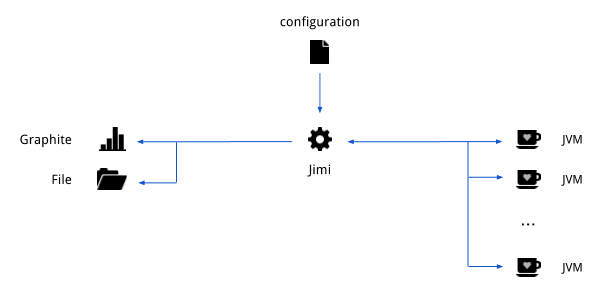
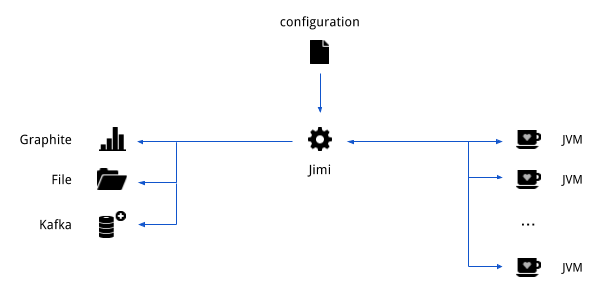
update img

diff --git a/README.md b/README.md
@@ -5,7 +5,7 @@
 * Easy to setup and configure. _I think so._
 * Light. _Well RAM is so cheap nowadays._
 * Not intrusive. _As much as RMI could be._
-* Integration with third-party tools. _Graphite_
+* Integration with third-party tools. _Graphite, Kafka_
 * Getting data from Oracle JVM, Weblogic and in the near future from JBoss servers.  _True._
 * Collect simple numeric attributes from BMeans and combined data attributes. _True._
 
